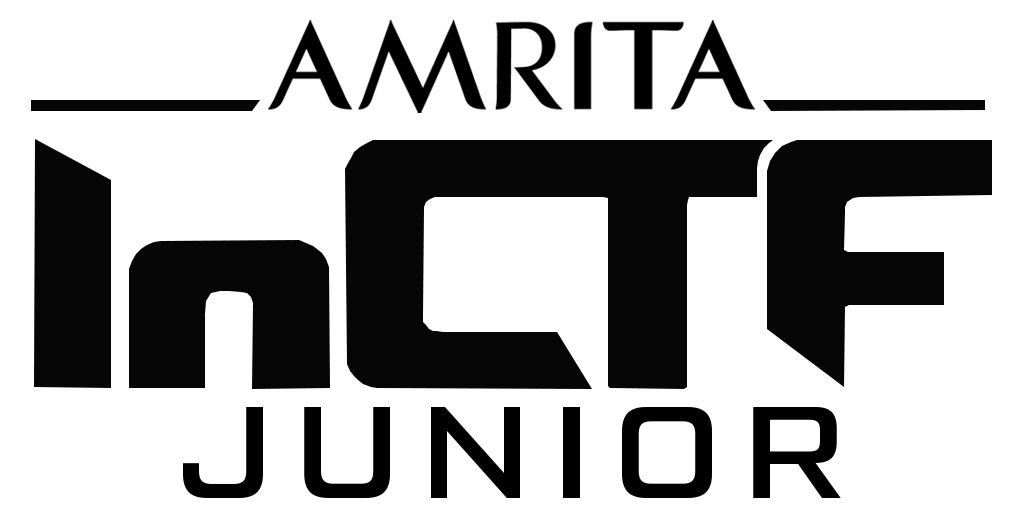
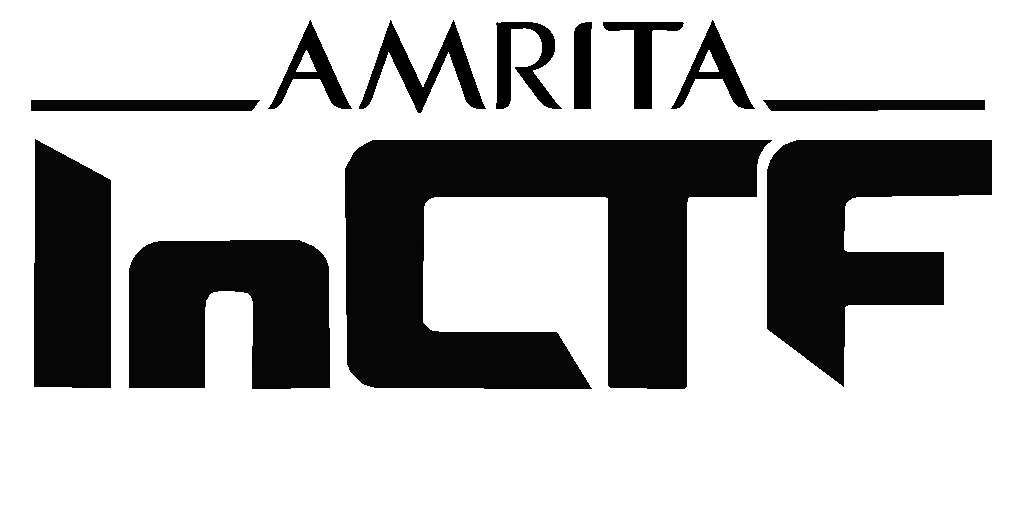
update the landing page

diff --git a/src/components/landing/Header.jsx b/src/components/landing/Header.jsx
@@ -170,7 +170,7 @@ const LandingHeader = ({ UTMSource = null }) => {
                                 <img
                                     alt="InCTF Jr"
                                     id="landing-header-cover-image"
-                                    src={require('../../assets/images/covers/landing-cover-image.png')}
+                                    src={require('../../assets/images/covers/Untitled design.png')}
                                     style={{ position: 'unset', maxHeight: '500px', maxWidth: '100%' }}
                                     draggable="false"
                                 />
@@ -202,10 +202,10 @@ const LandingHeader = ({ UTMSource = null }) => {
                                         <p>
                                             Your browser had some issues loading the registration form. So kindly use the links below.
                                         </p>
-                                        <a id="header-register-button" className="mr-2" href="https://traboda.com/contest/inctfj-21-lr">
+                                        <a id="header-register-button" className="mr-2" href="https://app.traboda.com/contest/inctf-21-lr">
                                             Register for Learning Round
                                         </a>
-                                        <a id="header-register-button" href="https://traboda.com/contest/inctfj-21-lr">
+                                        <a id="header-register-button" href="https://app.traboda.com/contest/inctf-21-lr">
                                             Login to Dashboard
                                         </a>
                                     </div> :

diff --git a/src/components/landing/JoinDiscussions.jsx b/src/components/landing/JoinDiscussions.jsx
@@ -54,7 +54,7 @@ const LandingJoinDiscussion = () => {
 
     return <div className="flex flex-wrap">
         <div className="md:w-1/2 w-full">
-            <TwitterDiscussion href="https://twitter.com/InCTFj" rel="noopener noreferrer" target="_blank">
+            <TwitterDiscussion href="https://twitter.com/InCTF" rel="noopener noreferrer" target="_blank">
                 <Fade left>
                     <div>
                         <img src={require('../../assets/images/logos/twitter.png')} alt="Follow us on Twitter<" />
@@ -65,7 +65,7 @@ const LandingJoinDiscussion = () => {
         </div>
 
         <div className="md:w-1/2 w-full">
-            <DiscordDiscussion href="https://discord.gg/rkyDM6p3m2" rel="noopener noreferrer" target="_blank">
+            <DiscordDiscussion href="https://discord.gg/uZ2yahXyMd" rel="noopener noreferrer" target="_blank">
                 <Fade right>
                     <div>
                         <img src={require('../../assets/images/logos/discord.png')} alt="Join Discord Server" />

diff --git a/src/components/shared/SocialMediaLinks.tsx b/src/components/shared/SocialMediaLinks.tsx
@@ -4,23 +4,23 @@ const SocialMediaLinks = () => {
 
     const links = [
         {
-            "href": "mailto:inctfj@am.amrita.edu",
+            "href": "mailto:inctf@am.amrita.edu",
             "icon": "fa fa-envelope"
         },
         {
-            "href": "https://www.instagram.com/juniorinctf/",
+            "href": "https://www.instagram.com/inctf.in/",
             "icon": "fab fa-instagram"
         },
         {
-            "href": "https://twitter.com/InCTFj",
+            "href": "https://twitter.com/InCTF",
             "icon": "fab fa-twitter"
         },
         {
-            "href": "https://www.facebook.com/InCTFj",
+            "href": "https://www.facebook.com/InCTF",
             "icon": "fab fa-facebook"
         },
         {
-            "href": "https://www.youtube.com/c/InCTFj",
+            "href": "https://www.youtube.com/InCTF",
             "icon": "fab fa-youtube"
         },
         {

diff --git a/src/components/shared/Footer.jsx b/src/components/shared/Footer.jsx
@@ -37,7 +37,7 @@ const Footer = () => {
                         <img draggable="false" className="inline mb-3" alt="Amrita InCTF Junior" src={require('../../assets/images/branding/light_version.png')} />
                         <div className="md:ml-6 py-3">
                             <div className="line-height-1 opacity-80 my-2 md:mb-1 md:mt-0">
-                                &copy; Amrita InCTF Jr. 2016-2021. <span className="inline-block">All Rights Reserved.</span>
+                                &copy; Amrita InCTF 2016-2021. <span className="inline-block">All Rights Reserved.</span>
                             </div>
                             <FooterLinksBar>
                                 <a href="/branding">Brand Kit</a>
